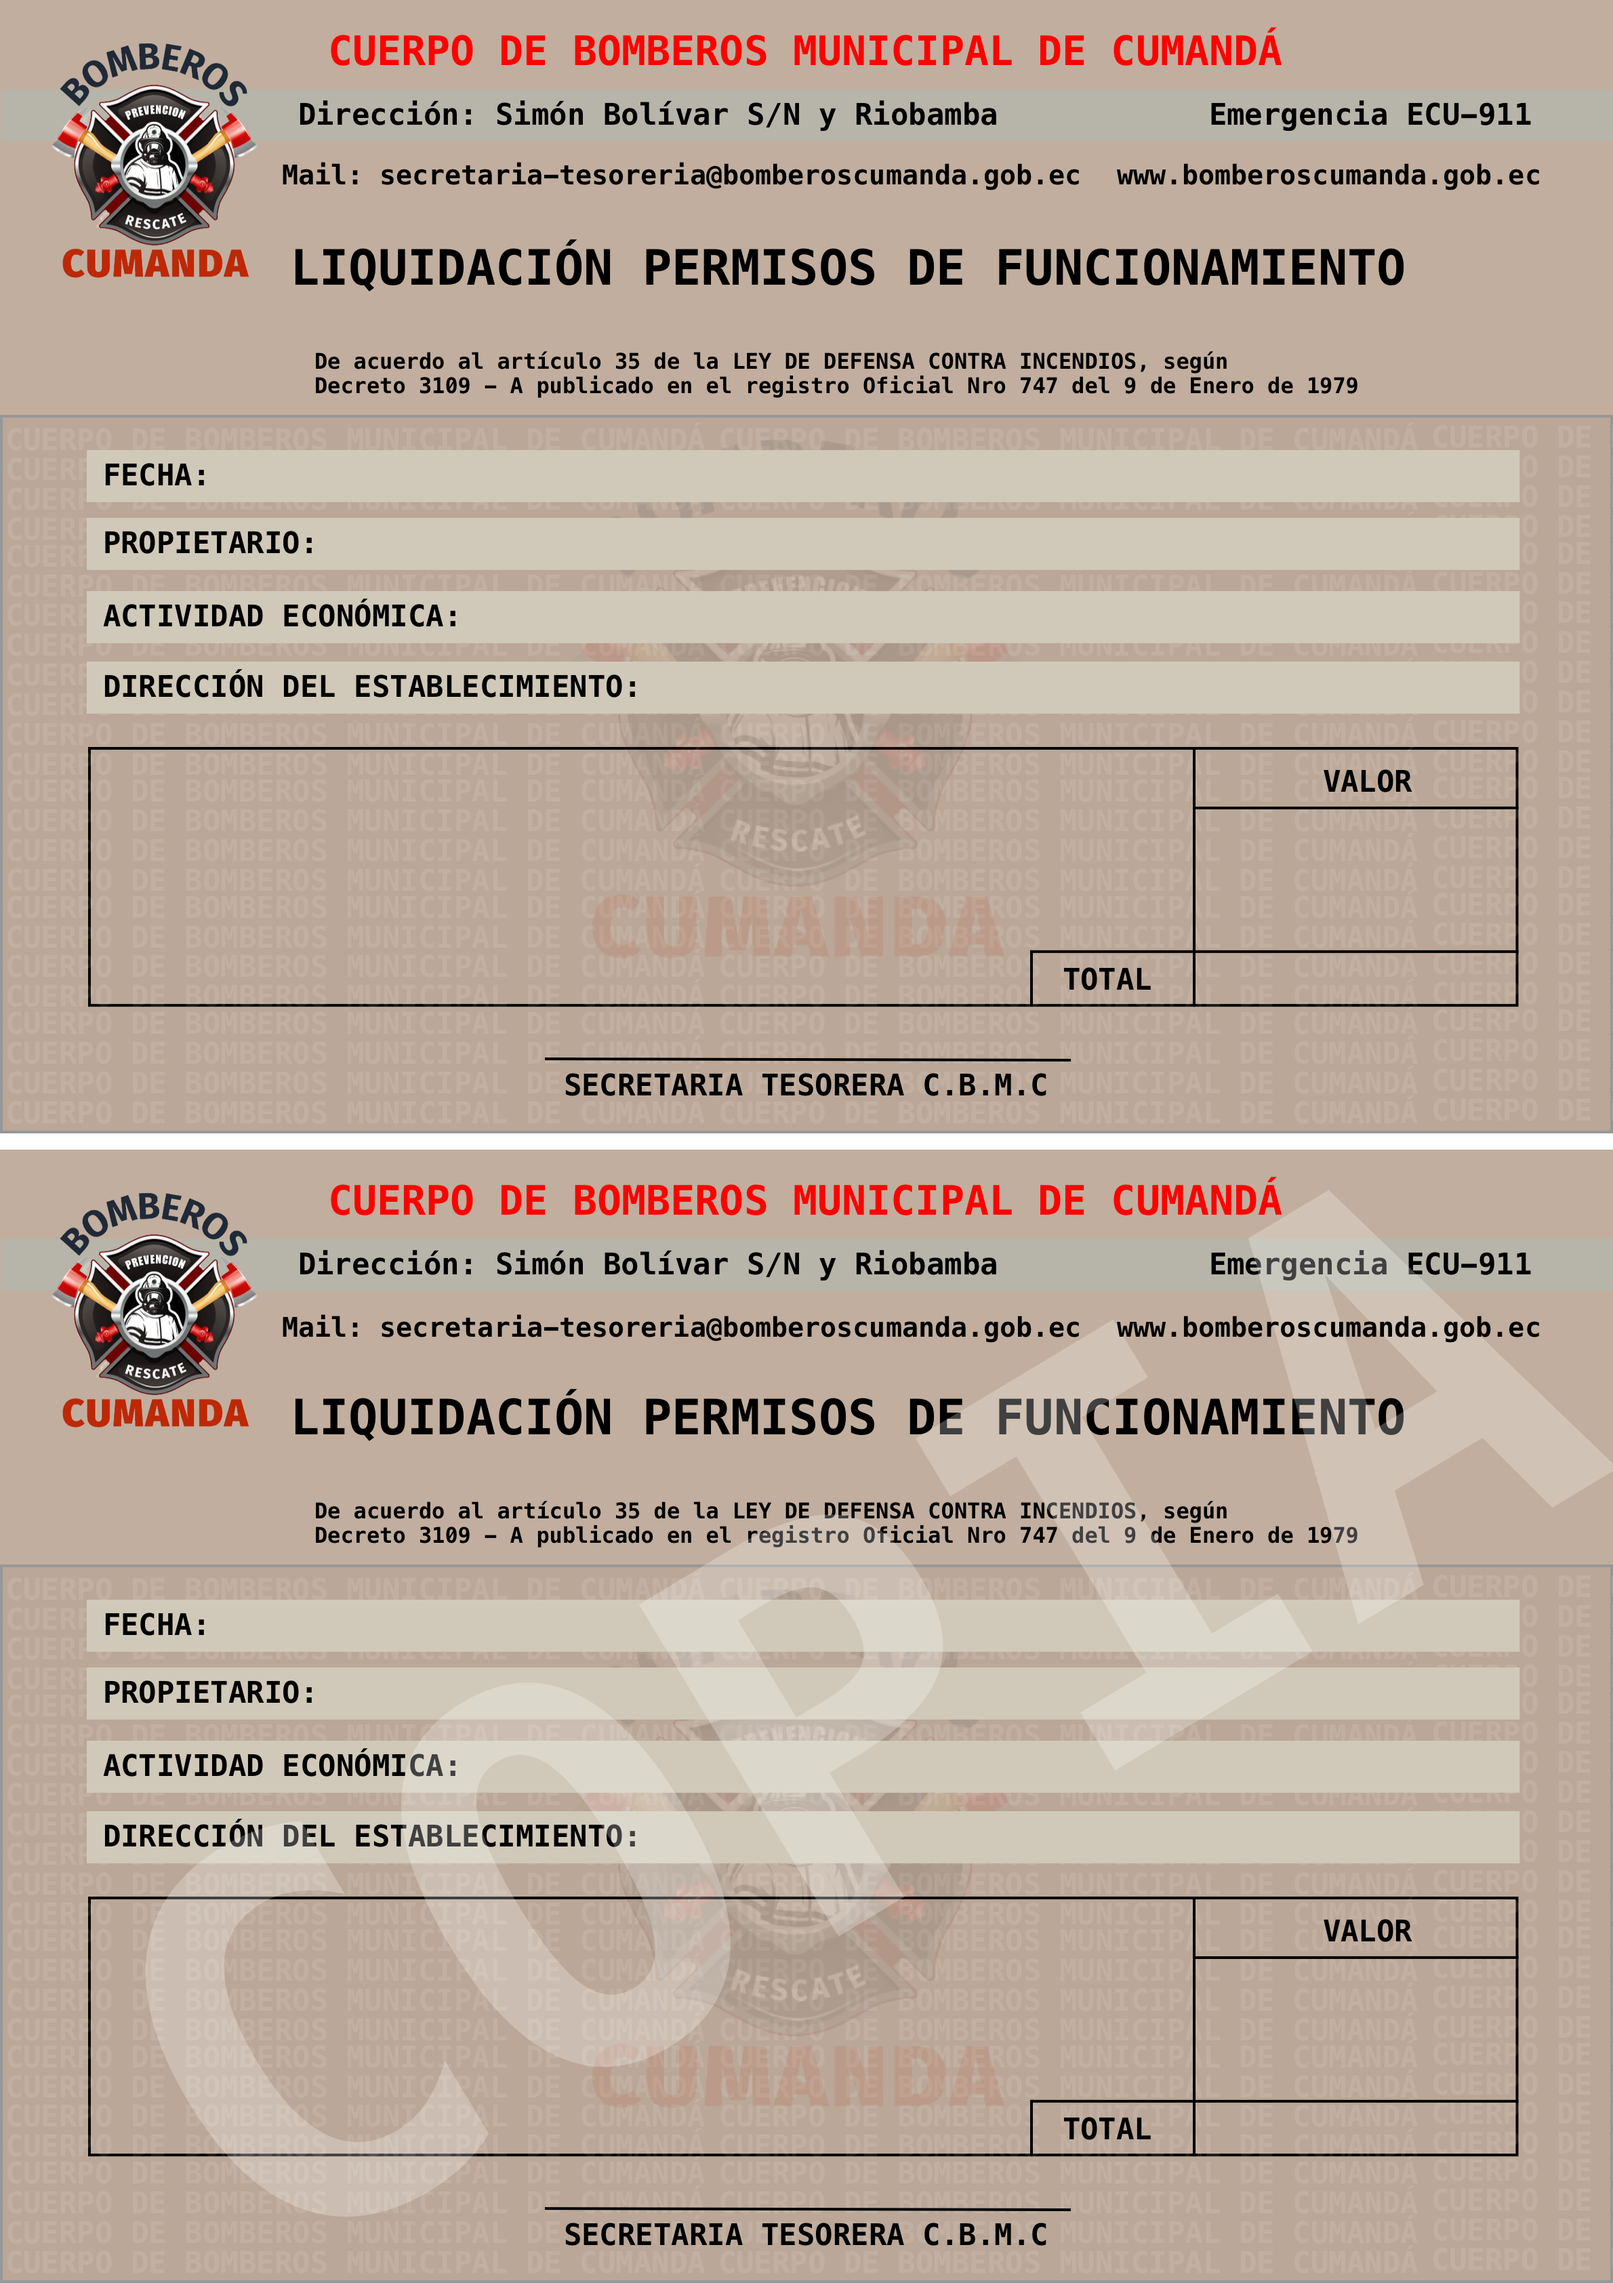
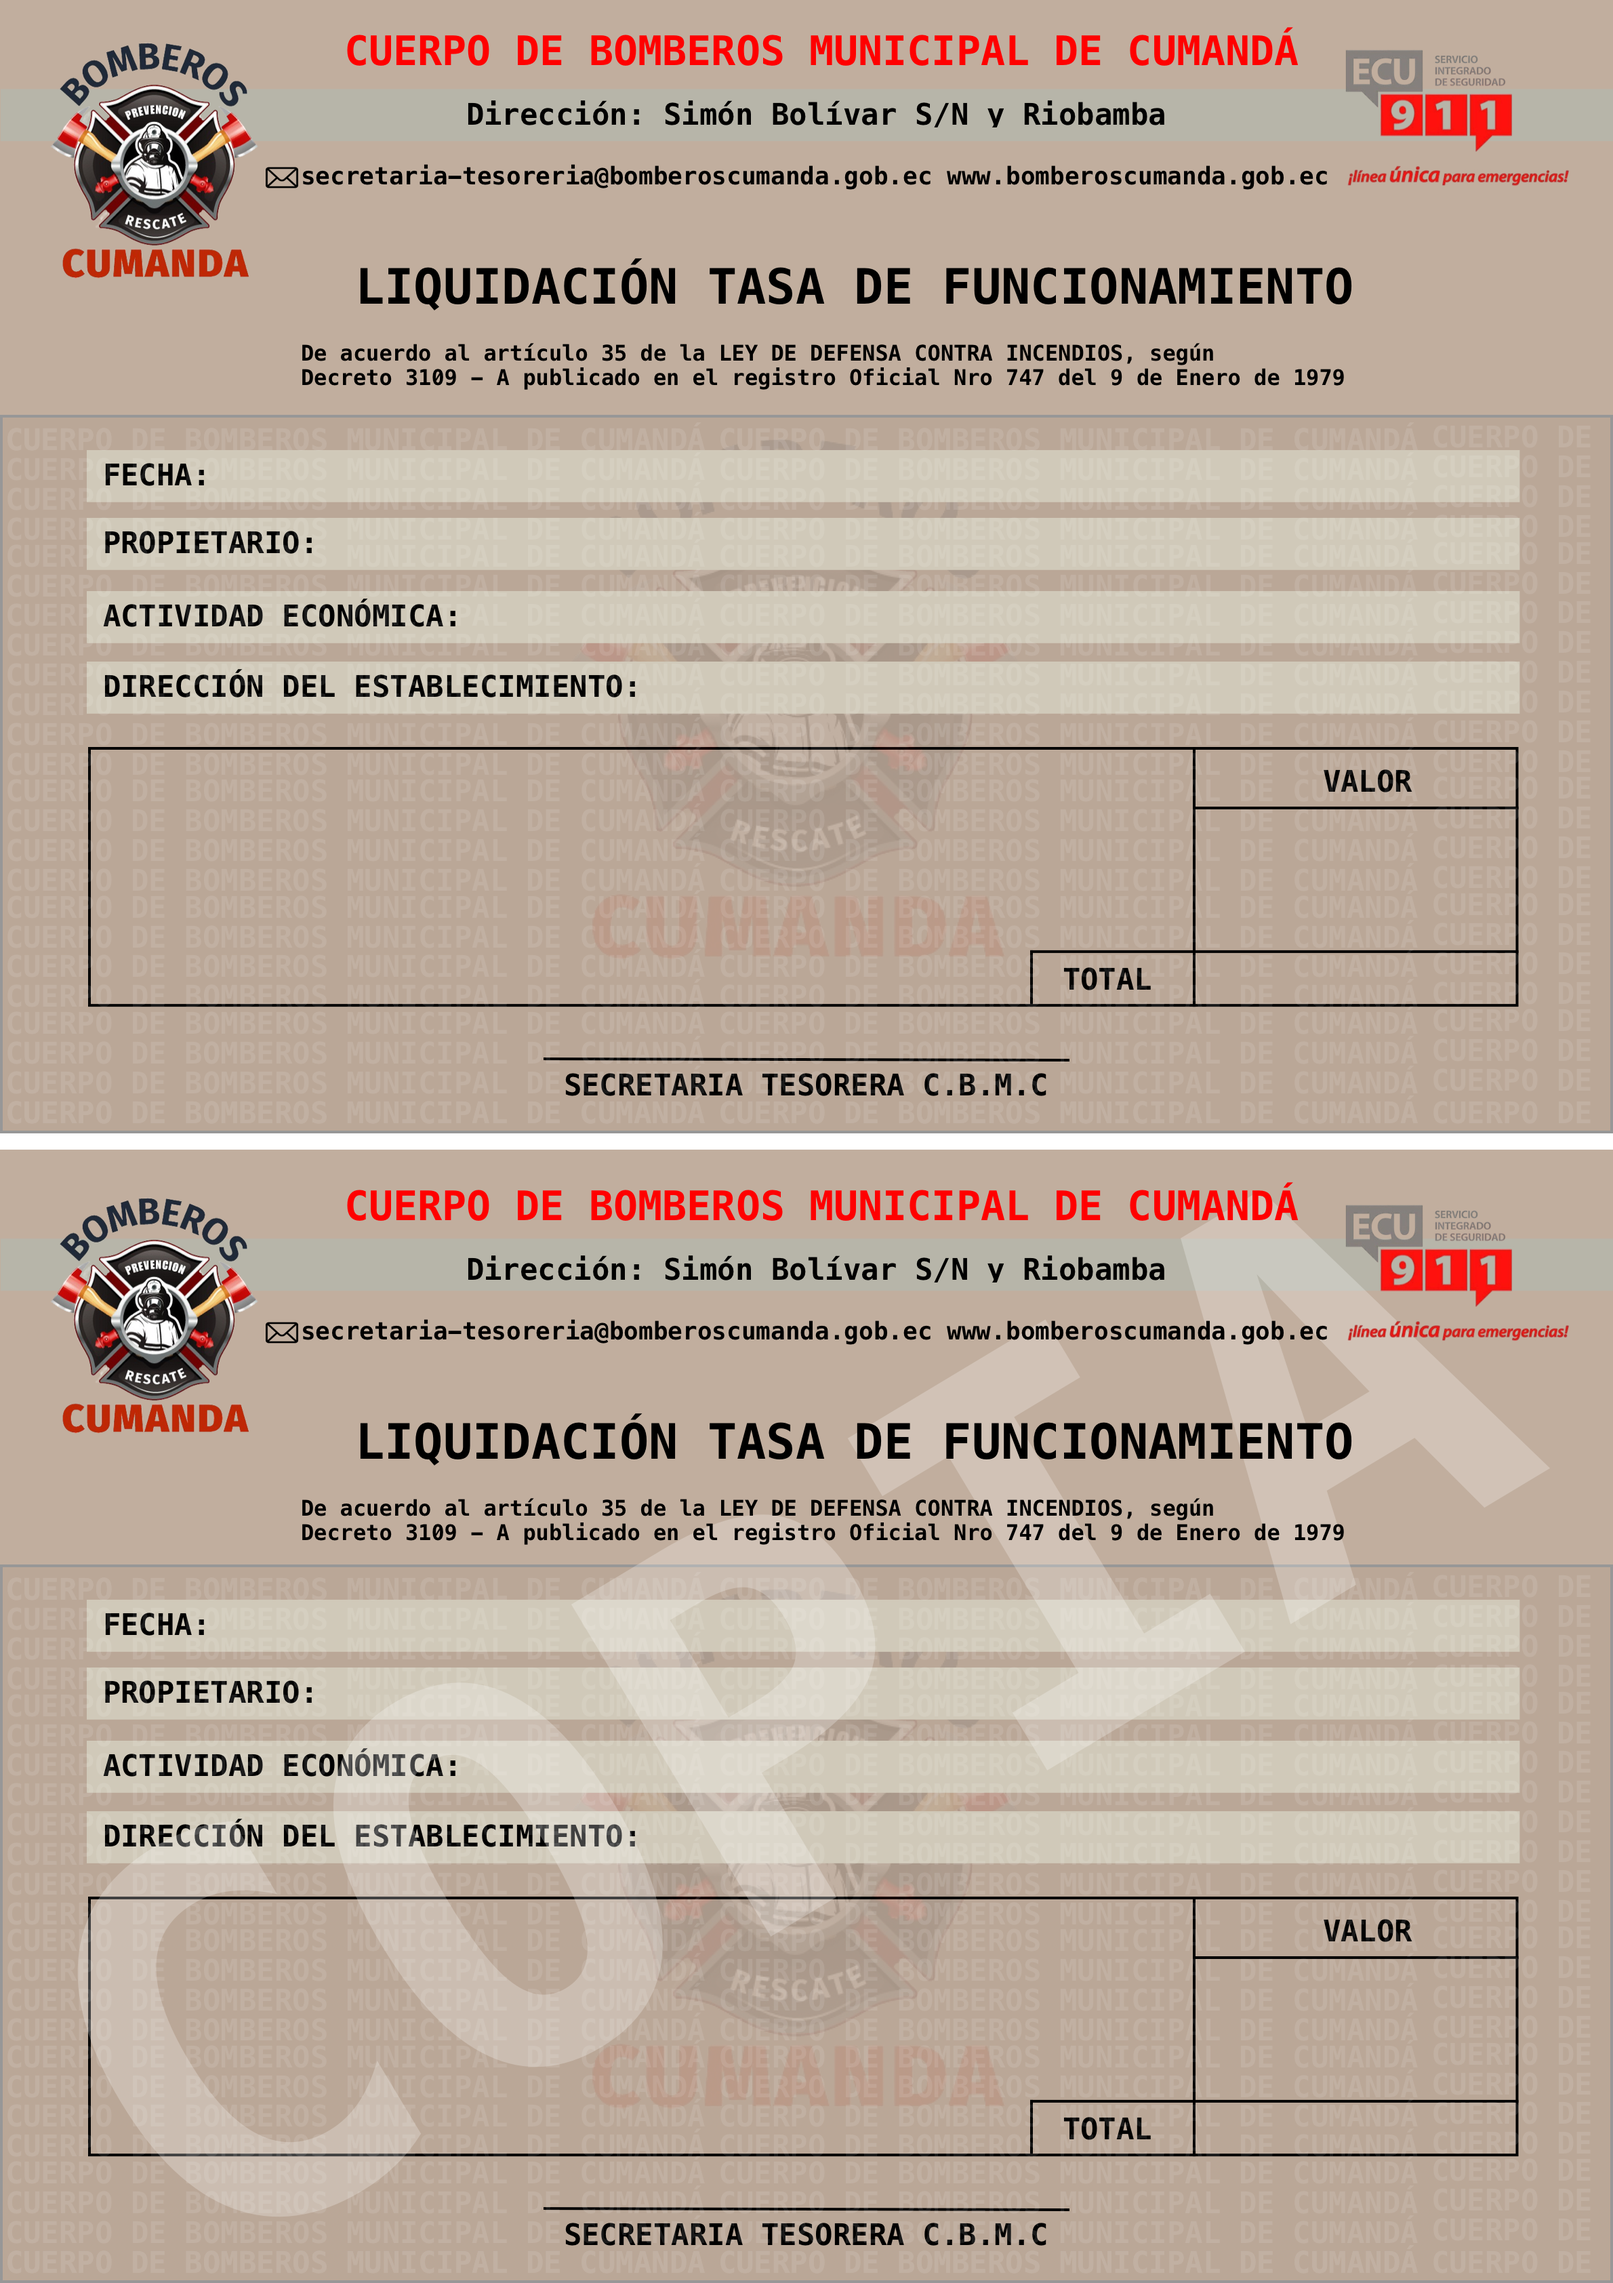
Change permit pdf

Changed region(s): [[0.0311, 0.4988, 0.9639, 0.9664], [0.1555, 0.0, 0.9639, 0.1871], [0.4353, 0.717, 0.4664, 0.7482]]

diff --git a/src/cbd_reportes/MainPageController.java b/src/cbd_reportes/MainPageController.java
@@ -2113,12 +2113,12 @@ public class MainPageController implements Initializable {
         try {
             Font smallfont = new Font(Font.FontFamily.COURIER, 9, Font.NORMAL);
             Font font = new Font(Font.FontFamily.COURIER, 10, Font.NORMAL);
-            Font boldFont = new Font(Font.FontFamily.COURIER, 10, Font.BOLD);
+            Font mediumBoldFont = new Font(Font.FontFamily.COURIER, 12, Font.BOLD, BaseColor.RED);
 
             Phrase _p1_ = new Phrase();
             Paragraph p1 = new Paragraph();
 
-            _p1_.setFont(boldFont);
+            _p1_.setFont(mediumBoldFont);
             _p1_.add(Chunk.TABBING);
             _p1_.add(Chunk.TABBING);
             _p1_.add(Chunk.TABBING);
@@ -2276,7 +2276,7 @@ public class MainPageController implements Initializable {
         try {
             Font smallfont = new Font(Font.FontFamily.COURIER, 9, Font.NORMAL);
             Font font = new Font(Font.FontFamily.COURIER, 10, Font.NORMAL);
-            Font boldFont = new Font(Font.FontFamily.COURIER, 10, Font.BOLD);
+            Font mediumBoldFont = new Font(Font.FontFamily.COURIER, 12, Font.BOLD, BaseColor.RED);
 
             Phrase _p1_ = new Phrase();
             Paragraph p1 = new Paragraph();
@@ -2292,7 +2292,7 @@ public class MainPageController implements Initializable {
             document.add(Chunk.NEWLINE);
             document.add(Chunk.NEWLINE);
 
-            _p1_.setFont(boldFont);
+            _p1_.setFont(mediumBoldFont);
             _p1_.add(Chunk.TABBING);
             _p1_.add(Chunk.TABBING);
             _p1_.add(Chunk.TABBING);
